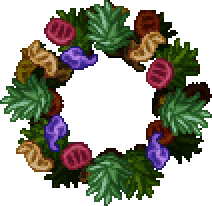
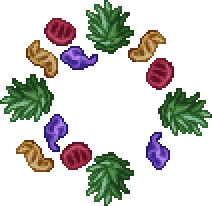
Potpourri

Changed region(s): [[0.4528, 0.0291, 1.0, 0.9903], [0.0566, 0.0291, 0.4811, 0.932], [0.4811, 0.0, 0.6226, 0.0874]]

diff --git a/NPCs/Bosses/Phytogen/Phytogen.cs b/NPCs/Bosses/Phytogen/Phytogen.cs
@@ -20,6 +20,7 @@ using Microsoft.Build.Tasks;
 using System;
 using CalRemix.Retheme;
 using CalamityMod.Projectiles.Boss;
+using CalRemix.Buffs;
 
 namespace CalRemix.NPCs.Bosses.Phytogen
 {
@@ -179,11 +180,10 @@ namespace CalRemix.NPCs.Bosses.Phytogen
                                     NPC.ai[2]++;
                                     if (NPC.ai[2] % 4 == 0)
                                     {
-                                        int p = Projectile.NewProjectile(NPC.GetSource_FromThis(), NPC.Center, NPC.DirectionTo(NPCTarget.Center) * 20, ProjectileID.Leaf, (int)MathHelper.Max(NPCTarget.lifeMax / 50, 222), 1f, Main.myPlayer);
-                                        Main.projectile[p].hostile = true;
-                                        Main.projectile[p].friendly = false;
-                                        Main.projectile[p].tileCollide = false;
-                                        Main.projectile[p].DamageType = DamageClass.Generic;
+                                        int p = Projectile.NewProjectile(NPC.GetSource_FromThis(), NPC.Center, NPC.DirectionTo(NPCTarget.Center) * 20, ModContent.ProjectileType<Potpourri>(), (int)MathHelper.Max(NPCTarget.lifeMax / 50, 222), 1f, Main.myPlayer, ai0: 0, ai1: NPCTarget.whoAmI, Main.rand.NextFloat(-2f, 2f));
+                                        Main.projectile[p].hostile = false;
+                                        Main.projectile[p].friendly = true;
+                                        Main.projectile[p].localAI[0] = Main.rand.Next(0, 3);
                                     }
                                     if (NPC.ai[1] > 120)
                                     {
@@ -209,6 +209,7 @@ namespace CalRemix.NPCs.Bosses.Phytogen
                     break;
                 case (int)PhaseType.Idle:
                     {
+                        NPC.damage = 100;
                         int minDist = 400;
                         float speed = 8f;
                         int maxTime = 180;
@@ -229,7 +230,7 @@ namespace CalRemix.NPCs.Bosses.Phytogen
                     {
                         int fireRate = 10;
                         int projPerShot = 3;
-                        int fireGate = 40;
+                        int fireGate = 110;
                         int perRound = 8;
                         int totalRounds = 2;
                         NPC.ai[1]++;
@@ -243,11 +244,8 @@ namespace CalRemix.NPCs.Bosses.Phytogen
                                 for (int i = 0; i < projPerShot; i++)
                                 {
                                     Vector2 perturbedSpeed = NPC.DirectionTo(Target.Center).RotatedBy(MathHelper.Lerp(-spreadfactor, spreadfactor, i / ((float)projPerShot - 1))) * scaleFactor;
-                                    int p = Projectile.NewProjectile(NPC.GetSource_FromThis(), NPC.Center, perturbedSpeed, ProjectileID.Leaf, (int)(NPC.damage * 0.25f), 0, Main.myPlayer);
-                                    Main.projectile[p].hostile = true;
-                                    Main.projectile[p].friendly = false;
-                                    Main.projectile[p].tileCollide = false;
-                                    Main.projectile[p].DamageType = DamageClass.Generic;
+                                    int p = Projectile.NewProjectile(NPC.GetSource_FromThis(), NPC.Center, perturbedSpeed, ModContent.ProjectileType<Potpourri>(), (int)(NPC.damage * 0.25f), 0, Main.myPlayer, 1, Target.whoAmI, Main.rand.NextFloat(-2f, 2f));
+                                    Main.projectile[p].localAI[0] = Main.rand.Next(0, 3);
                                 }
                             }
                             if (NPC.ai[2] > fireRate * perRound)
@@ -297,7 +295,7 @@ namespace CalRemix.NPCs.Bosses.Phytogen
                             maxTime /= 2;
                         }
                         int height = 100;
-                        int fireRate = rev ? 30 : 40;
+                        int fireRate = rev ? 120 : 160;
                         NPC.ai[2]++;
                         NPC.ai[3]++;
                         NPC.Calamity().newAI[1]--;
@@ -330,7 +328,8 @@ namespace CalRemix.NPCs.Bosses.Phytogen
                         if (NPC.ai[2] % fireRate == 0)
                         {
                             SoundEngine.PlaySound(SoundID.Grass, NPC.Center);
-                            Projectile.NewProjectile(NPC.GetSource_FromThis(), NPC.Center, NPC.velocity.SafeNormalize(Vector2.One) * speed, ModContent.ProjectileType<SporeGasPlantera>(), (int)(NPC.damage * 0.25f), 0, Main.myPlayer);
+                            int p = Projectile.NewProjectile(NPC.GetSource_FromThis(), NPC.Center, NPC.velocity.SafeNormalize(Vector2.One) * speed, ModContent.ProjectileType<Potpourri>(), (int)(NPC.damage * 0.25f), 0, Main.myPlayer, 1, Target.whoAmI, Main.rand.NextFloat(-2f, 2f));
+                            Main.projectile[p].localAI[0] = Main.rand.Next(0, 3);
                         }
                         /*if (NPC.ai[3] > maxTime || (NPC.ai[3] > minTime && Target.position.Y - height > NPC.Center.Y))
                         {
@@ -364,6 +363,7 @@ namespace CalRemix.NPCs.Bosses.Phytogen
                             NPC.Calamity().newAI[1] = 0;
                             NPC.rotation = 0;
                             NPC.position = Target.Center - Vector2.UnitY * 200;
+                            NPC.velocity *= 0;
                             DustExplosion();
                             Phase = (int)PhaseType.LastStand;
                         }
@@ -644,21 +644,22 @@ namespace CalRemix.NPCs.Bosses.Phytogen
                             NPC.velocity = NPC.DirectionTo(Target.Center) * speed;
                             if (NPC.ai[1] % sporeFireRate == 0)
                             {
-                                SoundEngine.PlaySound(SoundID.Grass, NPC.Center);
-                                Projectile.NewProjectile(NPC.GetSource_FromThis(), NPC.Center, NPC.velocity.SafeNormalize(Vector2.One) * speed, ModContent.ProjectileType<SporeGasPlantera>(), (int)(NPC.damage * 0.25f), 0, Main.myPlayer);
+                                //SoundEngine.PlaySound(SoundID.Grass, NPC.Center);
+                                //Projectile.NewProjectile(NPC.GetSource_FromThis(), NPC.Center, NPC.velocity.SafeNormalize(Vector2.One) * speed, ModContent.ProjectileType<SporeGasPlantera>(), (int)(NPC.damage * 0.25f), 0, Main.myPlayer);
                             }
                             if (NPC.ai[2] % sporeFireRate == 0)
                             {
                                 SoundEngine.PlaySound(SoundID.Grass, NPC.Center);
-                                Projectile.NewProjectile(NPC.GetSource_FromThis(), NPC.Center, NPC.velocity.SafeNormalize(Vector2.One) * petalSpeed, ProjectileID.SeedPlantera, (int)(NPC.damage * 0.25f), 0, Main.myPlayer);
+                                int p = Projectile.NewProjectile(NPC.GetSource_FromThis(), NPC.Center, NPC.velocity.SafeNormalize(Vector2.One) * petalSpeed, ModContent.ProjectileType<Potpourri>(), (int)(NPC.damage * 0.25f), 0, Main.myPlayer, 1, Target.whoAmI, Main.rand.NextFloat(-2f, 2f));
+                                Main.projectile[p].localAI[0] = Main.rand.Next(0, 3);
                             }
                             foreach (Player p in Main.player)
                             {
                                 if (p.active)
                                 {
-                                    if (p.Distance(NPC.Center) > 500)
+                                    if (p.Distance(NPC.Center) > 560)
                                     {
-                                        p.statLife -= 2;
+                                        p.AddBuff(ModContent.BuffType<HayFeaver>(), 2);
                                     }
                                 }
                             }
@@ -740,7 +741,7 @@ namespace CalRemix.NPCs.Bosses.Phytogen
 
         public override bool? CanBeHitByProjectile(Projectile projectile)
         {
-            if (projectile.type == ProjectileID.Leaf && Phase == (int)PhaseType.Passive)
+            if (projectile.type == ModContent.ProjectileType<Potpourri>() && Phase == (int)PhaseType.Passive)
             {
                 return false;
             }

diff --git a/Projectiles/Hostile/Potpourri.cs b/Projectiles/Hostile/Potpourri.cs
@@ -1,0 +1,109 @@
+using CalamityMod;
+using CalamityMod.Buffs.DamageOverTime;
+using CalamityMod.Graphics.Primitives;
+using Microsoft.Xna.Framework;
+using Microsoft.Xna.Framework.Graphics;
+using System;
+using System.IO;
+using Terraria;
+using Terraria.Audio;
+using Terraria.GameContent;
+using Terraria.Graphics.Shaders;
+using Terraria.ID;
+using Terraria.ModLoader;
+
+namespace CalRemix.Projectiles.Hostile
+{
+    public class Potpourri : ModProjectile
+    {
+        public override void SetStaticDefaults()
+        {
+            DisplayName.SetDefault("Potpourri");
+        }
+        public override void SetDefaults()
+        {
+            Projectile.width = 18;
+            Projectile.height = 18;
+            Projectile.hostile = true;
+            Projectile.timeLeft = 240;
+            Projectile.tileCollide = false;
+        }
+
+        public override void ReceiveExtraAI(BinaryReader reader)
+        {
+            Projectile.localAI[0] = reader.ReadSingle();
+            Projectile.localAI[1] = reader.ReadSingle();
+        }
+
+        public override void SendExtraAI(BinaryWriter writer)
+        {
+            writer.Write(Projectile.localAI[0]);
+            writer.Write(Projectile.localAI[1]);
+        }
+
+        public override void AI()
+        {
+            Entity target = Projectile.ai[0] == 0 ? Main.npc[(int)Projectile.ai[1]] : Main.player[(int)Projectile.ai[1]];
+            bool active = target != null && target.active;
+            Projectile.localAI[1]++;
+            if (Projectile.localAI[1] < 90)
+            { 
+                Projectile.ai[2] += 0.1f;
+                float timeThing = (float)Math.Sin(Projectile.ai[2]);
+                float speedX = 16f;
+                float speedY = 4;
+                Projectile.velocity = new Vector2(timeThing * speedX, speedY);
+                Projectile.rotation = timeThing;
+            }
+            else if (Projectile.localAI[1] == 90 && active)
+            {
+                int launchSpeed = 16;
+                Projectile.velocity = Projectile.DirectionTo(target.Center) * launchSpeed;
+                SoundEngine.PlaySound(CalamityMod.Sounds.CommonCalamitySounds.SwiftSliceSound with { Pitch = 0.4f, Volume = 0.6f }, Projectile.Center);
+            }
+        }
+
+        public override void OnKill(int timeLeft)
+        {
+            SoundEngine.PlaySound(SoundID.Grass, Projectile.Center);
+            int padding = 0;
+            for (int i = 0; i < 4; i++)
+            {
+                Dust.NewDust(Projectile.position - new Vector2(padding, padding), Projectile.width + padding, Projectile.height + padding, DustID.Grass, Scale: Main.rand.NextFloat(2, 4));
+            }
+        }
+
+        public override bool PreDraw(ref Color lightColor)
+        {
+            Texture2D texture = Projectile.localAI[0] == 0 ? TextureAssets.Projectile[Type].Value : Projectile.localAI[0] == 1 ? ModContent.Request<Texture2D>(Texture + "2").Value : ModContent.Request<Texture2D>(Texture + "3").Value;
+            Vector2 centered = Projectile.Center - Main.screenPosition + new Vector2(0f, Projectile.gfxOffY);
+            if (Projectile.localAI[1] >= 90)
+            {
+                if (Projectile.oldPos[^1] == Projectile.position)
+                    return false;
+                Main.spriteBatch.EnterShaderRegion();
+
+                // Prepare the flame trail shader with its map texture.
+                GameShaders.Misc["CalamityMod:ImpFlameTrail"].SetShaderTexture(ModContent.Request<Texture2D>("CalamityMod/ExtraTextures/Trails/ScarletDevilStreak"));
+                Vector2 trailOffset = Projectile.Size * 0.5f;
+                trailOffset += (Projectile.rotation + MathHelper.PiOver2).ToRotationVector2();
+                PrimitiveRenderer.RenderTrail(Projectile.oldPos, new(FlameTrailWidthFunction, FlameTrailColorFunction, (_) => trailOffset, shader: GameShaders.Misc["CalamityMod:ImpFlameTrail"]), 61);
+
+                Main.spriteBatch.ExitShaderRegion();
+                Main.EntitySpriteDraw(texture, centered, null, Projectile.GetAlpha(lightColor), Projectile.rotation, texture.Size() / 2, Projectile.scale, SpriteEffects.None, 0);
+            }
+            else
+            {
+                CalamityUtils.DrawProjectileWithBackglow(Projectile, Color.Violet * 0.4f, Color.Violet, 4, texture);
+            }
+            return false;
+        }
+        public float FlameTrailWidthFunction(float completionRatio) => MathHelper.SmoothStep(12f * Projectile.scale, 8f * Projectile.scale, completionRatio);
+
+        public Color FlameTrailColorFunction(float completionRatio)
+        {
+            float trailOpacity = Utils.GetLerpValue(0.8f, 0.27f, completionRatio, true) * Utils.GetLerpValue(0f, 0.067f, completionRatio, true);
+            return Color.Violet * trailOpacity;
+        }
+    }
+}

diff --git a/CalRemixPlayer.cs b/CalRemixPlayer.cs
@@ -97,6 +97,7 @@ namespace CalRemix
         public bool clockBar;
         public bool anomaly109UI;
 		public bool dungeon2;
+		public bool hayFever;
 
         public int chainSawCharge;
         public int chainSawHitCooldown = 0;
@@ -692,6 +693,7 @@ namespace CalRemix
 			clockBar = false;
             wormMeal = false;
 			invGar = false;
+			hayFever = false;
             if (astEffigy)
 				Player.statLifeMax2 = (int)(Player.statLifeMax2 * 1.5);
 			if (Player.HeldItem != null && Player.HeldItem.type != ItemID.None)
@@ -895,6 +897,13 @@ namespace CalRemix
                 Player.lifeRegenTime = 0;
                 Player.lifeRegen -= 12;
             }
+            if (hayFever)
+            {
+                if (Player.lifeRegen > 0)
+                    Player.lifeRegen = 0;
+                Player.lifeRegenTime = 0;
+                Player.lifeRegen -= 240;
+            }
         }
 		public override void FrameEffects()
 		{
@@ -928,7 +937,12 @@ namespace CalRemix
 				int index = Dust.NewDust(Player.position, Player.width, Player.height, DustID.Smoke, SpeedY: -4f, newColor: Color.DarkGray);
 				drawInfo.DustCache.Add(index);
             }
-		}
+            if (hayFever)
+            {
+                int index = Dust.NewDust(Player.position, Player.width, Player.height, DustID.JungleSpore, Scale: Main.rand.NextFloat(1f, 2f));
+                drawInfo.DustCache.Add(index);
+            }
+        }
 
         public override void OnHitByNPC(NPC npc, Player.HurtInfo hurtInfo)
         {

diff --git a/NPCs/Bosses/Phytogen/PineappleFrond.cs b/NPCs/Bosses/Phytogen/PineappleFrond.cs
@@ -1,6 +1,7 @@
 using CalamityMod;
 using CalamityMod.Buffs.DamageOverTime;
 using CalamityMod.DataStructures;
+using CalRemix.Projectiles.Hostile;
 using Microsoft.Xna.Framework;
 using Microsoft.Xna.Framework.Graphics;
 using System.Collections.Generic;
@@ -69,6 +70,19 @@ namespace CalRemix.NPCs.Bosses.Phytogen
                 }
             }
             return false;
+        }
+        public override bool? CanBeHitByProjectile(Projectile projectile)
+        {
+            NPC phyto = Main.npc[(int)NPC.ai[0]];
+            if (phyto == null || !phyto.active || phyto.type != ModContent.NPCType<Phytogen>())
+            {
+                return false;
+            }
+            if (projectile.type == ModContent.ProjectileType<Potpourri>() && phyto.ai[0] == (int)Phytogen.PhaseType.Passive)
+            {
+                return false;
+            }
+            return null;
         }
 
         /*public override bool? CanBeHitByProjectile(Projectile projectile)

diff --git a/NPCs/Bosses/Phytogen/PhytogenShield.cs b/NPCs/Bosses/Phytogen/PhytogenShield.cs
@@ -128,7 +128,9 @@ namespace CalRemix.NPCs.Bosses.Phytogen
                 return false;
 
             Asset<Texture2D> sprite = TextureAssets.Npc[Type];
+            Asset<Texture2D> sprite2 = ModContent.Request<Texture2D>(Texture + 2);
             Vector2 npcOffset = NPC.Center - screenPos;
+            spriteBatch.Draw(sprite2.Value, npcOffset, null, NPC.GetAlpha(Lighting.GetColor(new Point((int)carci.position.X / 16, (int)carci.position.Y / 16))), -NPC.rotation * 0.8f - 0.3f, sprite.Size() / 2, NPC.scale, SpriteEffects.None, 0);
             spriteBatch.Draw(sprite.Value, npcOffset, null, NPC.GetAlpha(Lighting.GetColor(new Point((int)carci.position.X / 16, (int)carci.position.Y / 16))), NPC.rotation, sprite.Size() / 2, NPC.scale, SpriteEffects.None, 0);
             return false;
         }

diff --git a/Buffs/HayFeaver.cs b/Buffs/HayFeaver.cs
@@ -1,0 +1,23 @@
+using Terraria;
+using Terraria.ModLoader;
+
+namespace CalRemix.Buffs
+{
+    public class HayFeaver : ModBuff
+    {
+        public override void SetStaticDefaults()
+        {
+            DisplayName.SetDefault("Hay Fever");
+            Description.SetDefault("You're sneezing out blood!");
+            Main.debuff[Type] = true;
+            Main.pvpBuff[Type] = true;
+            Main.buffNoSave[Type] = true;
+            Terraria.ID.BuffID.Sets.LongerExpertDebuff[Type] = true;
+        }
+
+        public override void Update(Player player, ref int buffIndex)
+        {
+            player.GetModPlayer<CalRemixPlayer>().hayFever = true;
+        }
+    }
+}
